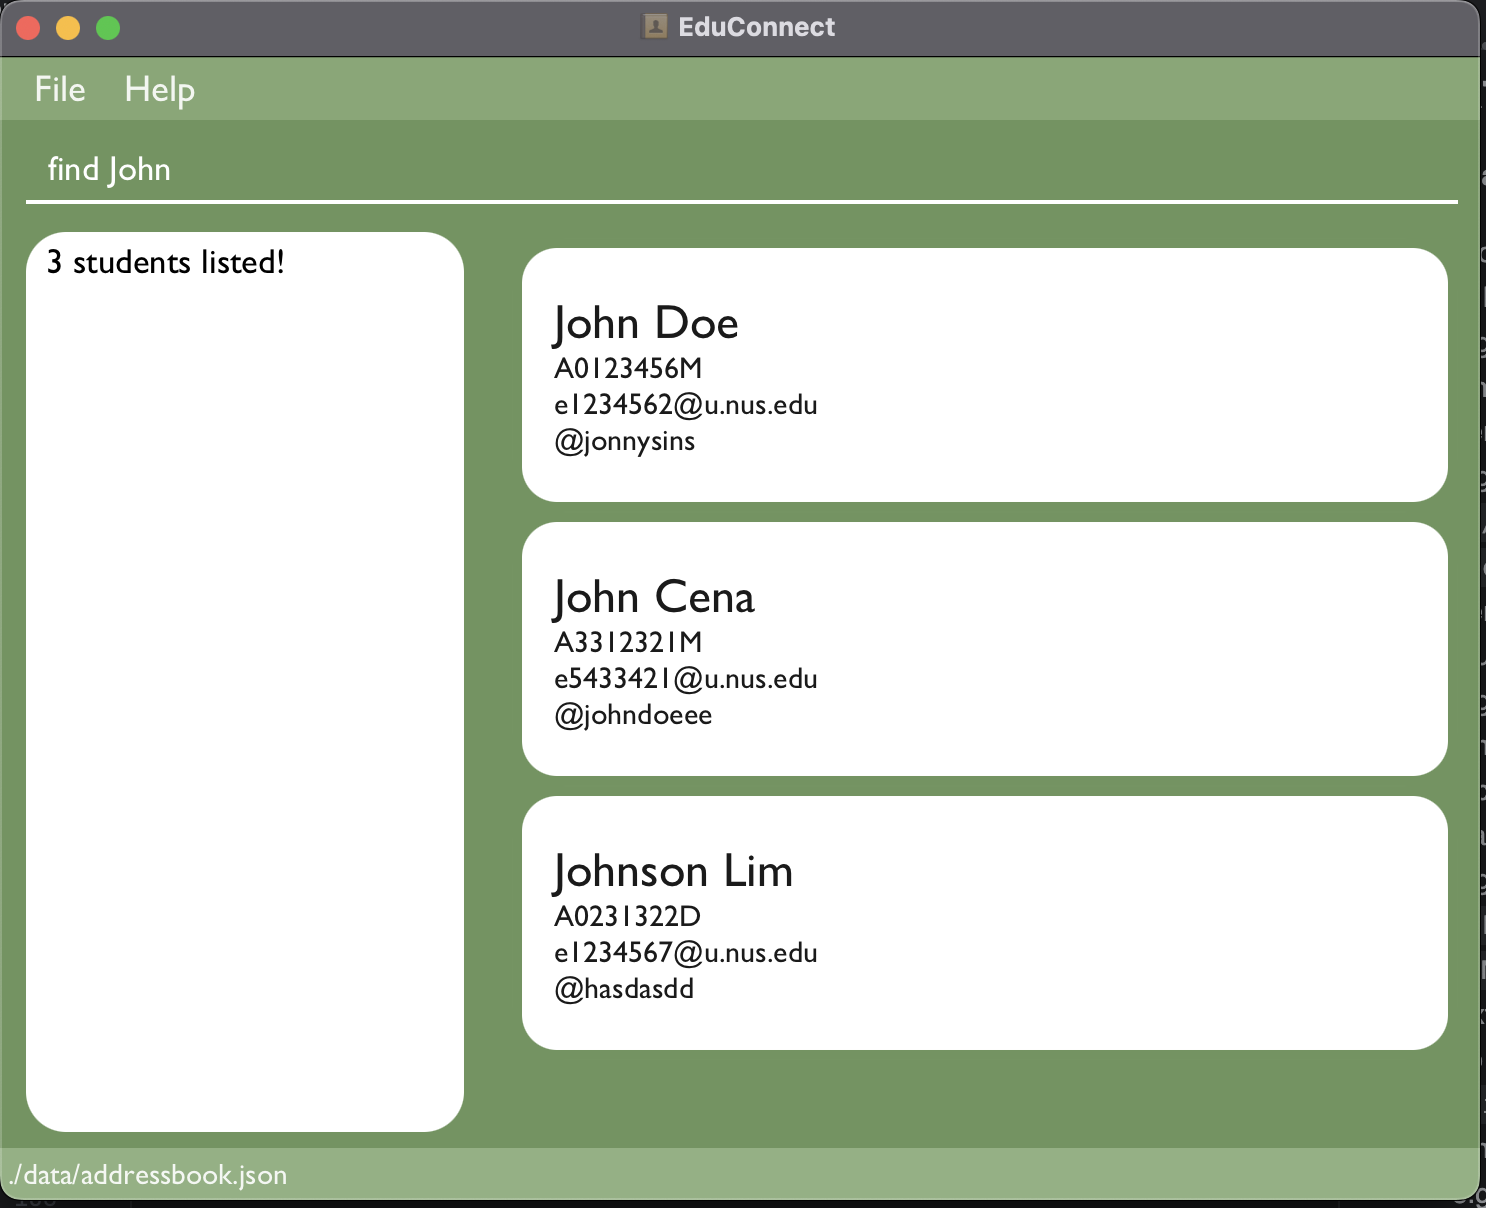
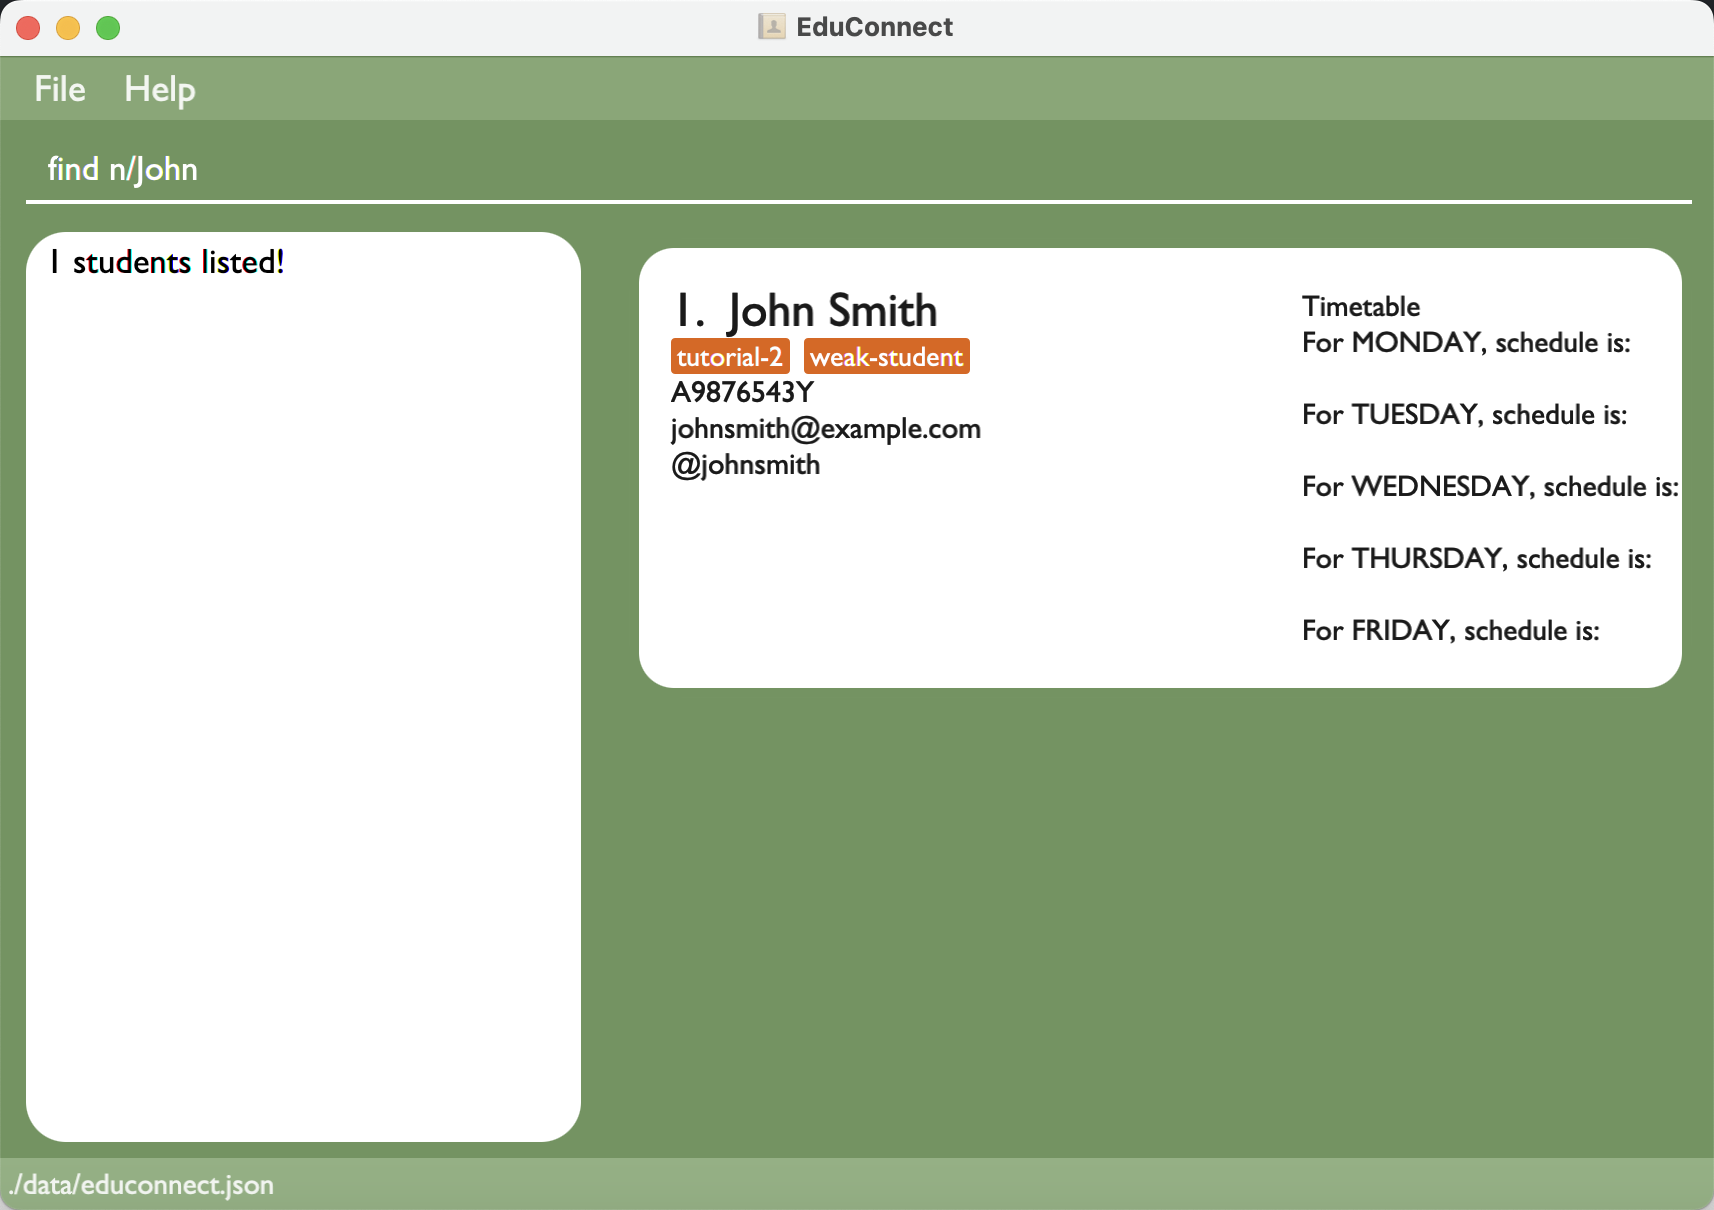
Update UI, UG, and README

diff --git a/docs/UserGuide.md b/docs/UserGuide.md
@@ -145,18 +145,14 @@ Examples:
 Find students whose names contain any of the given keywords.
 
 
-Format: `find KEYWORD [MORE_KEYWORDS]`
+Format: `find [n/NAME] [s/STUDENT_ID] [h/TELEGRAM_HANDLE] [t/TAG]...`
 
 * The search is case-insensitive. e.g `hans` will match `Hans`
 * The order of the keywords does not matter. e.g. `Hans Bo` will match `Bo Hans`
-* Only the name is searched.
-  * Students with names matching any parts of the keyword will be returned.
-    e.g. `Hans Bo` will return `Hans Gruber`, `Bo Yang`,`J` will return `John Doe`, `Jimmy Lim`.
 
 Examples:
-* `find John` returns `john` and `John Doe`
-* `find alex david` returns `Alex Yeoh`, `David Li`<br>
-  ![result for 'find alex david'](images/findAlex.png)
+* `find n/John` returns `John Smith`<br>
+  ![result for 'find alex david'](images/findJohn.png)
 
 ### Linking a student to a weblink: `link`
 

diff --git a/README.md b/README.md
@@ -1,6 +1,6 @@
 [![CI Status](https://github.com/AY2324S2-CS2103-T14-1/tp/workflows/Java%20CI/badge.svg)](https://github.com/AY2324S2-CS2103-T14-1/tp/actions)
 
-![Ui](docs/images/Ui.png)
+![Ui](docs/images/sampleUi.png)
 
 # EduConnect
 
